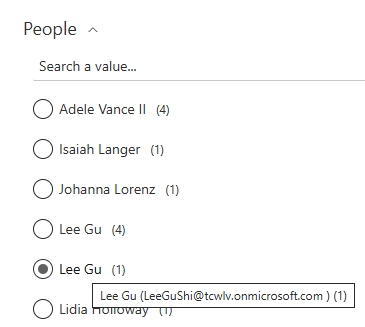
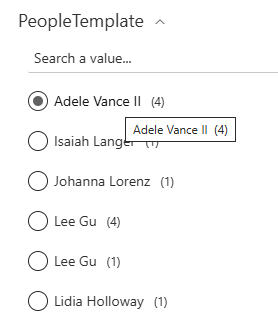
updated docs as the extented mouse over ( display name + UPN ) didn't work in Multi select

diff --git a/docs/usage/search-filters/index.md b/docs/usage/search-filters/index.md
@@ -33,7 +33,7 @@ The filter settings are as follow:
 | **Display Name** | A friendly name for the filter |
 | **Filter field** | The internal data source field to use as filter. Here you can select a field from the current data source (if data have been already retrieved) of type your own custom value (press enter to validate).
 | **# of values** | The maximum number of values to be retrieved for a given filter. This value is useful if you use SharePoint refiners with a lot of refiner values. By default SharePoint will only retreve the first 100 values. To get all refiner values, you must specify an higher number manually (maximum value is 1000).
-| **Template** | The template to use to display filter values. The builtin templates are: </br><ul><li>**Check box** <p align="center">!["Check box"](../../assets/webparts/search-filters/checkbox_template.png)</p></li><li>**Date range** <p align="center">!["Date range"](../../assets/webparts/search-filters/daterange_template.png)</p></li><li>**Date interval** <p align="center">!["Date interval"](../../assets/webparts/search-filters/dateinterval_template.png)</p></li><li>**Combo** <p align="center">!["Combo"](../../assets/webparts/search-filters/combo_template.png)</p></br> You can search a value directly in the list by typing keywords in the combo text field.</br></br><li>**People Template** <p align="center">!["People Template"](../../assets/webparts/search-filters/people_template.png) </br>The hover shows the users display name and UPN in paranticisparentheses. The UPN is useful in situations where two users have the same display name.  </p></br></li></ul>
+| **Template** | The template to use to display filter values. The builtin templates are: </br><ul><li>**Check box** <p align="center">!["Check box"](../../assets/webparts/search-filters/checkbox_template.png)</p></li><li>**Date range** <p align="center">!["Date range"](../../assets/webparts/search-filters/daterange_template.png)</p></li><li>**Date interval** <p align="center">!["Date interval"](../../assets/webparts/search-filters/dateinterval_template.png)</p></li><li>**Combo** <p align="center">!["Combo"](../../assets/webparts/search-filters/combo_template.png)</p></br> You can search a value directly in the list by typing keywords in the combo text field.</br></br><li>**People Template** <p align="center">!["People Template"](../../assets/webparts/search-filters/people_template.png)  </p></br></li></ul>
 | **Expand by default** | If applicable for the selected template, display values as expanded.
 | **Show count** | If applicable for the selected template, display counts for values.
 | **Mutli values** | If applicable for the selected template, allow selection of multiple values.
